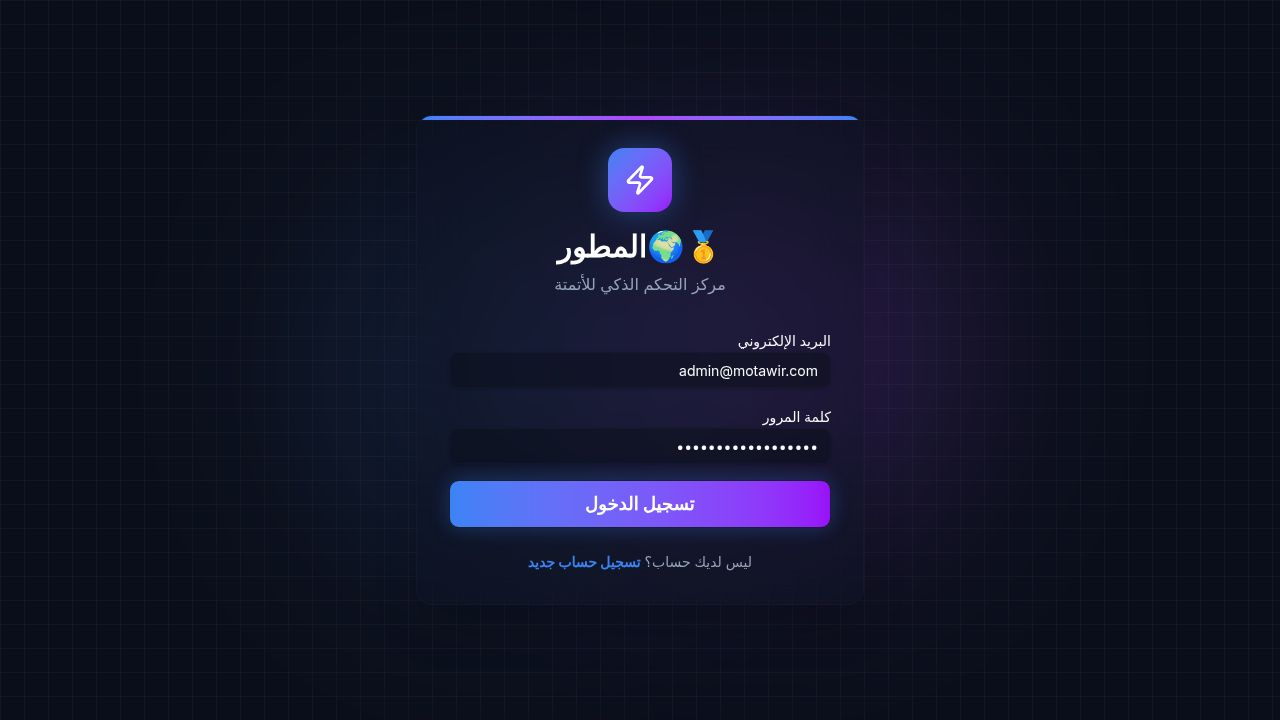
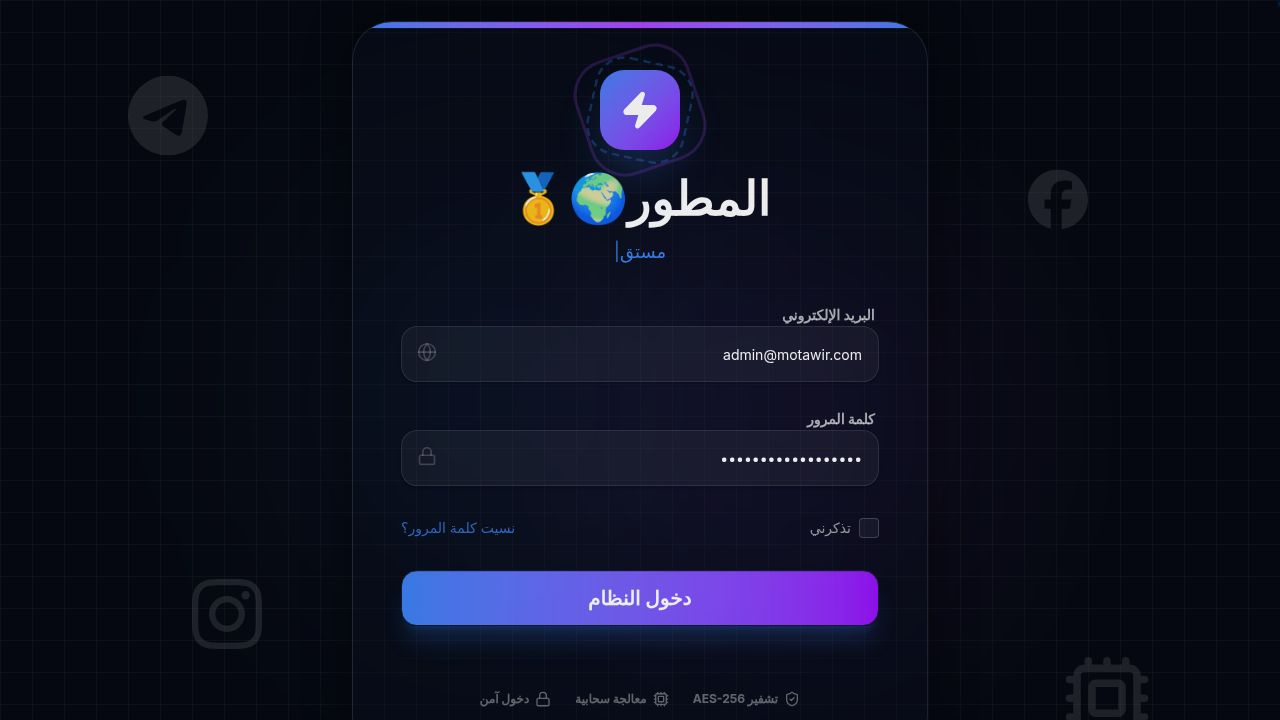
Add animated emojis and speed optimizations to the website
Update index.html, layout.tsx, and index.css to include animated emojis (🌍, 🥇) and performance enhancements, including font preloading and RTL support.

Replit-Commit-Author: Agent
Replit-Commit-Session-Id: 4330a6fb-b86f-4de7-a38b-4aab59c4df12
Replit-Commit-Checkpoint-Type: full_checkpoint
Replit-Commit-Event-Id: 3b251f00-b8ae-4209-8388-ee00ab8ea0a9
Replit-Commit-Screenshot-Url: https://storage.googleapis.com/screenshot-production-us-central1/ca133e49-a38b-4dbc-8bb6-7a345b7832a2/4330a6fb-b86f-4de7-a38b-4aab59c4df12/wvCieJ1
Replit-Helium-Checkpoint-Created: true

diff --git a/artifacts/motawir/src/index.css b/artifacts/motawir/src/index.css
@@ -175,4 +175,84 @@
   .glow-purple {
     box-shadow: 0 0 20px rgba(168, 85, 247, 0.4);
   }
+
+  /* ===== Animated Brand Emoji ===== */
+  @keyframes emoji-wave {
+    0%   { transform: rotate(0deg) scale(1)   translateY(0px); }
+    10%  { transform: rotate(-8deg) scale(1.15) translateY(-4px); }
+    20%  { transform: rotate(8deg)  scale(1.2)  translateY(-8px); }
+    30%  { transform: rotate(-6deg) scale(1.15) translateY(-4px); }
+    40%  { transform: rotate(6deg)  scale(1.1)  translateY(-2px); }
+    50%  { transform: rotate(0deg)  scale(1.05) translateY(0px); }
+    100% { transform: rotate(0deg) scale(1)   translateY(0px); }
+  }
+
+  @keyframes emoji-pulse-glow {
+    0%, 100% { filter: drop-shadow(0 0 4px rgba(59,130,246,0)); }
+    50%       { filter: drop-shadow(0 0 10px rgba(59,130,246,0.8)) drop-shadow(0 0 20px rgba(168,85,247,0.4)); }
+  }
+
+  @keyframes emoji-spin-tilt {
+    0%   { transform: rotate(0deg) scale(1); }
+    25%  { transform: rotate(-15deg) scale(1.2) translateY(-5px); }
+    50%  { transform: rotate(0deg)  scale(1.3); }
+    75%  { transform: rotate(15deg) scale(1.2) translateY(-5px); }
+    100% { transform: rotate(0deg) scale(1); }
+  }
+
+  @keyframes gradient-x {
+    0%, 100% { background-position: 0% 50%; }
+    50%       { background-position: 100% 50%; }
+  }
+
+  .brand-emoji-globe {
+    display: inline-block;
+    animation: emoji-wave 3s ease-in-out infinite;
+    transform-origin: center bottom;
+    cursor: default;
+    will-change: transform;
+  }
+
+  .brand-emoji-medal {
+    display: inline-block;
+    animation: emoji-spin-tilt 4s ease-in-out infinite;
+    animation-delay: 0.5s;
+    transform-origin: center;
+    cursor: default;
+    will-change: transform;
+  }
+
+  .brand-emoji-globe:hover {
+    animation: emoji-pulse-glow 0.6s ease-in-out infinite;
+    filter: drop-shadow(0 0 12px rgba(59,130,246,0.9));
+  }
+
+  .brand-emoji-medal:hover {
+    animation: emoji-pulse-glow 0.6s ease-in-out infinite;
+    filter: drop-shadow(0 0 12px rgba(234,179,8,0.9));
+  }
+
+  /* Gradient animation */
+  .animate-gradient-x {
+    background-size: 200% 200%;
+    animation: gradient-x 3s ease infinite;
+  }
+
+  /* Hardware-accelerated layers for performance */
+  .gpu-layer {
+    transform: translateZ(0);
+    backface-visibility: hidden;
+    perspective: 1000px;
+  }
+
+  /* Shimmer loading effect */
+  @keyframes shimmer {
+    0%   { background-position: -200% 0; }
+    100% { background-position: 200% 0; }
+  }
+  .shimmer {
+    background: linear-gradient(90deg, transparent 0%, rgba(59,130,246,0.1) 50%, transparent 100%);
+    background-size: 200% 100%;
+    animation: shimmer 2s infinite;
+  }
 }

diff --git a/artifacts/motawir/index.html b/artifacts/motawir/index.html
@@ -1,21 +1,33 @@
 <!DOCTYPE html>
-<html lang="en">
+<html lang="ar" dir="rtl">
   <head>
     <meta charset="UTF-8" />
     <meta name="viewport" content="width=device-width, initial-scale=1.0, maximum-scale=1" />
-    <title>المطور - منصة أتمتة التواصل الاجتماعي</title>
-    <meta name="description" content="المطور - منصة أتمتة التواصل الاجتماعي — built on Replit. Update this description to reflect the app." />
+    <title>المطور🌍🥇 — منصة أتمتة التواصل الاجتماعي</title>
+    <meta name="description" content="المطور - منصة متكاملة لإدارة وأتمتة حسابات التواصل الاجتماعي مدعومة بالذكاء الاصطناعي" />
     <meta name="robots" content="index, follow" />
-    <meta property="og:title" content="المطور - منصة أتمتة التواصل الاجتماعي" />
-    <meta property="og:description" content="المطور - منصة أتمتة التواصل الاجتماعي — built on Replit. Update this description to reflect the app." />
+    <meta property="og:title" content="المطور🌍🥇 — منصة أتمتة التواصل الاجتماعي" />
+    <meta property="og:description" content="منصة متكاملة لإدارة وأتمتة تيليغرام وفيسبوك وإنستغرام" />
     <meta property="og:type" content="website" />
     <meta name="twitter:card" content="summary_large_image" />
-    <meta name="twitter:title" content="المطور - منصة أتمتة التواصل الاجتماعي" />
-    <meta name="twitter:description" content="المطور - منصة أتمتة التواصل الاجتماعي — built on Replit. Update this description to reflect the app." />
     <link rel="icon" type="image/svg+xml" href="/favicon.svg" />
-    <link rel="preconnect" href="https://fonts.googleapis.com">
-    <link rel="preconnect" href="https://fonts.gstatic.com" crossorigin>
-    <link href="https://fonts.googleapis.com/css2?family=Inter:wght@400;500;600;700&display=swap" rel="stylesheet">
+
+    <!-- Preconnect for fastest font load -->
+    <link rel="preconnect" href="https://fonts.googleapis.com" crossorigin />
+    <link rel="preconnect" href="https://fonts.gstatic.com" crossorigin />
+
+    <!-- Cairo: Arabic-first, modern, clean -->
+    <link
+      href="https://fonts.googleapis.com/css2?family=Cairo:wght@400;500;600;700;800;900&family=JetBrains+Mono:wght@400;700&display=swap"
+      rel="stylesheet"
+    />
+
+    <!-- Critical inline styles to prevent FOUC -->
+    <style>
+      html { direction: rtl; background: #080c19; }
+      body { margin: 0; font-family: 'Cairo', sans-serif; }
+      #root { min-height: 100dvh; }
+    </style>
   </head>
   <body>
     <div id="root"></div>

diff --git a/artifacts/motawir/src/components/layout.tsx b/artifacts/motawir/src/components/layout.tsx
@@ -51,7 +51,9 @@ export default function Layout({ children }: LayoutProps) {
           >
             م
           </motion.div>
-          <h1 className="text-2xl font-black tracking-tight text-transparent bg-clip-text bg-gradient-to-r from-primary to-purple-400">المطور🌍🥇</h1>
+          <h1 className="text-2xl font-black tracking-tight text-transparent bg-clip-text bg-gradient-to-r from-primary to-purple-400">
+            المطور<span className="brand-emoji-globe" style={{WebkitTextFillColor:"initial"}}>🌍</span><span className="brand-emoji-medal" style={{WebkitTextFillColor:"initial"}}>🥇</span>
+          </h1>
         </div>
 
         <nav className="flex-1 space-y-2">
@@ -118,7 +120,7 @@ export default function Layout({ children }: LayoutProps) {
              <div className="w-8 h-8 rounded-lg bg-gradient-to-br from-primary to-purple-600 flex items-center justify-center text-white font-bold shadow-[0_0_15px_rgba(59,130,246,0.5)]">
               م
             </div>
-            <span className="font-bold">المطور🌍🥇</span>
+            <span className="font-bold">المطور<span className="brand-emoji-globe">🌍</span><span className="brand-emoji-medal">🥇</span></span>
           </div>
           
           <div className="flex-1 flex justify-end items-center gap-4">

diff --git a/artifacts/motawir/src/pages/login.tsx b/artifacts/motawir/src/pages/login.tsx
@@ -120,7 +120,9 @@ export default function Login() {
               </div>
             </div>
             
-            <h1 className="text-5xl font-black text-white mb-4 tracking-tight">المطور🌍🥇</h1>
+            <h1 className="text-5xl font-black text-white mb-4 tracking-tight">
+              المطور<span className="brand-emoji-globe">🌍</span><span className="brand-emoji-medal">🥇</span>
+            </h1>
             <div className="h-6">
               <p className="text-primary font-medium text-lg">{typewriterText}<span className="animate-pulse">|</span></p>
             </div>